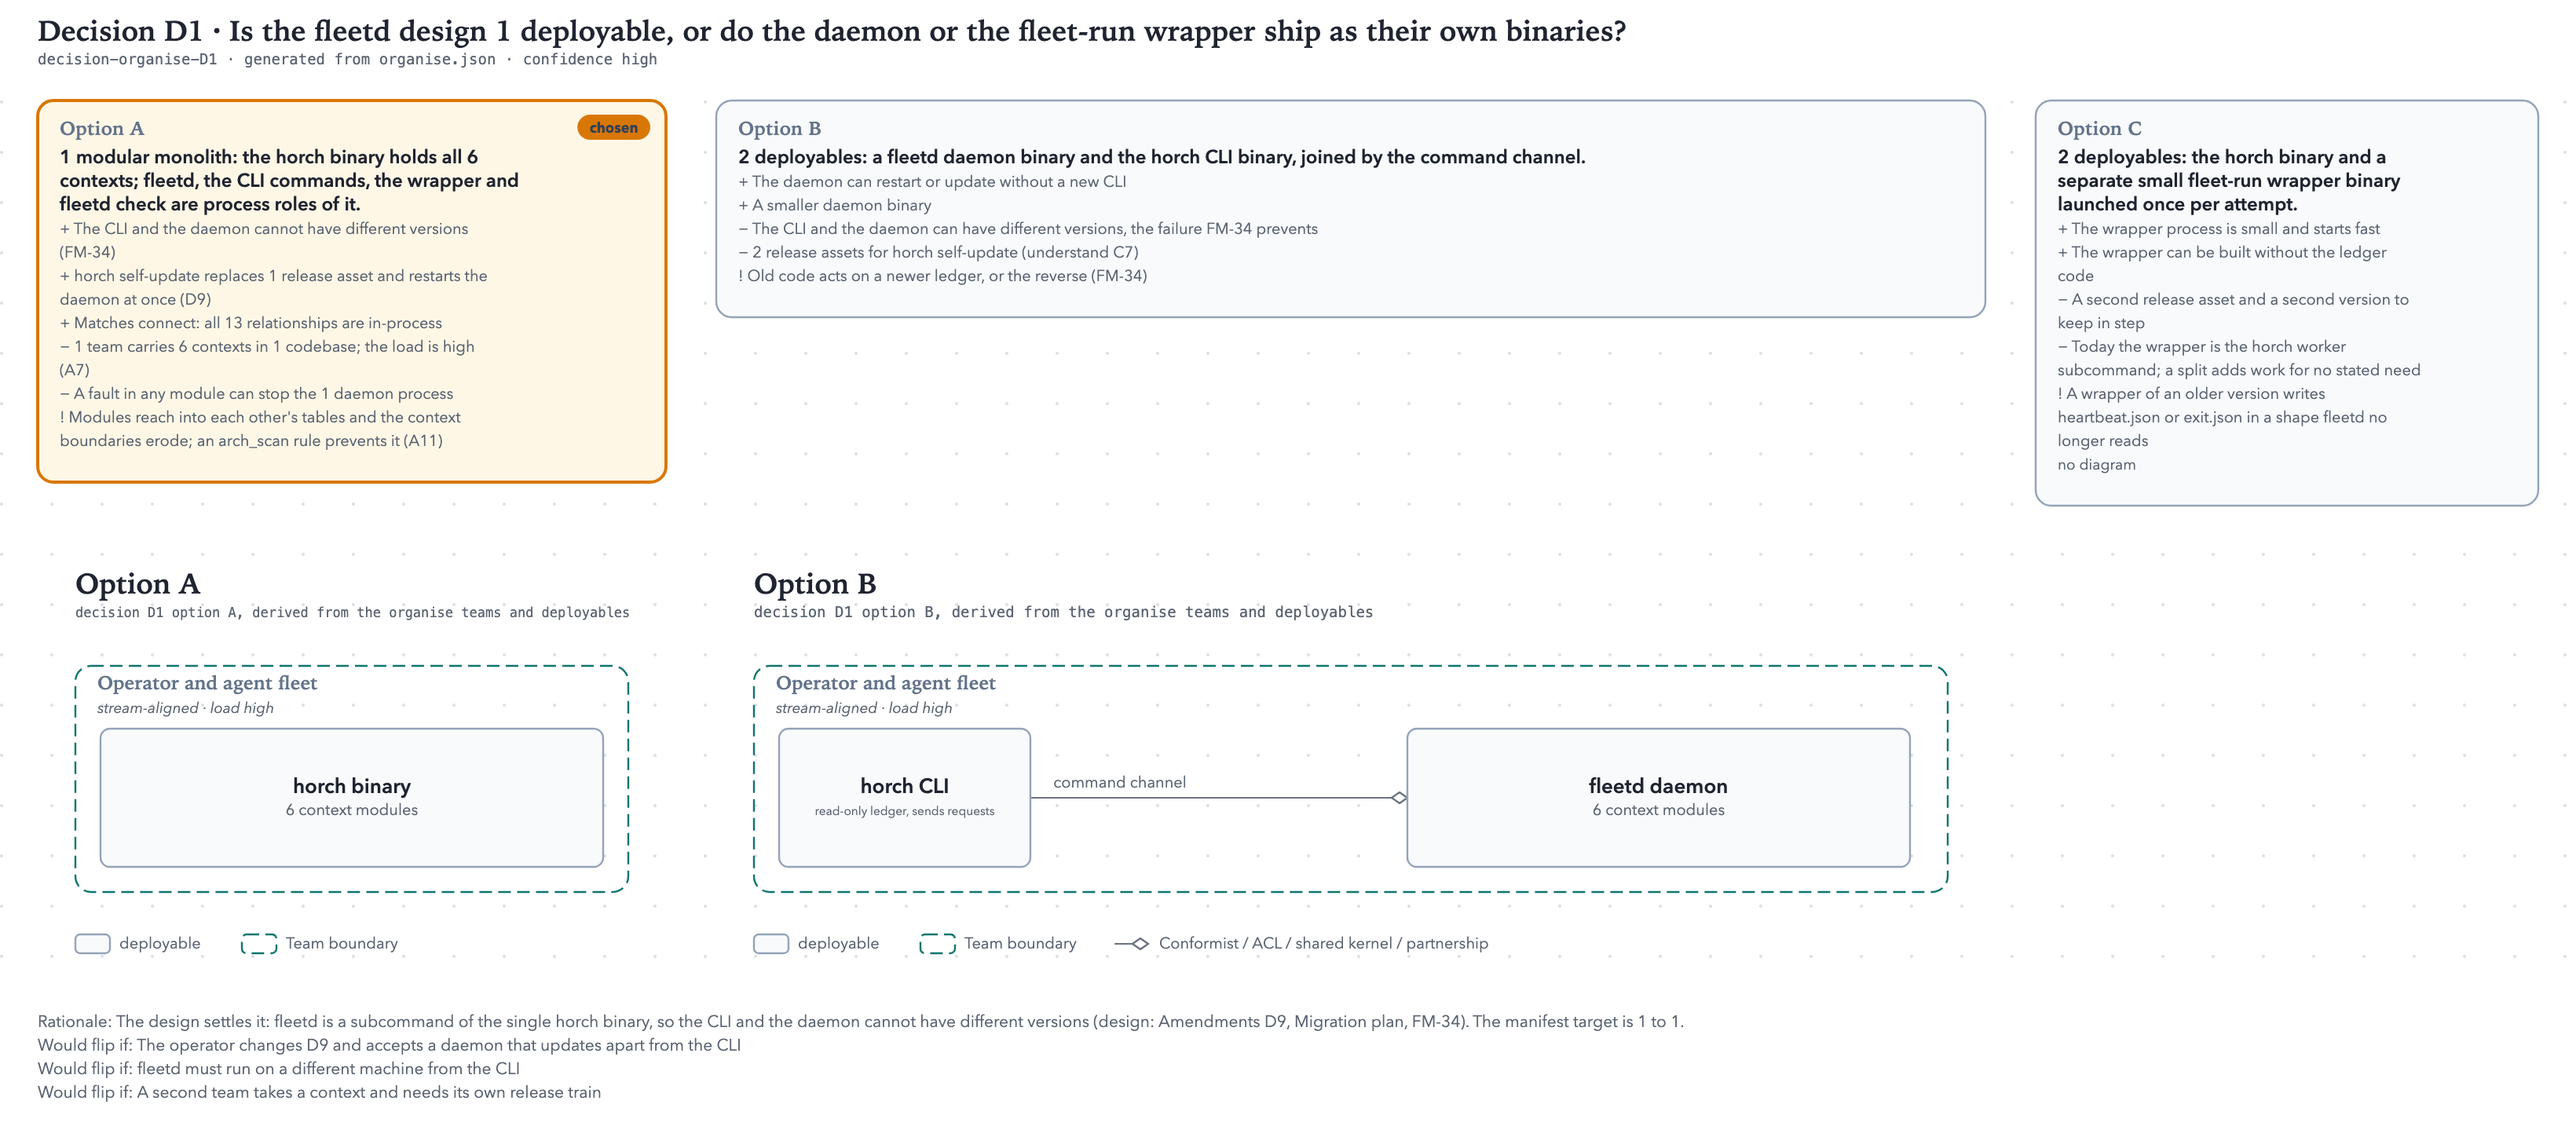
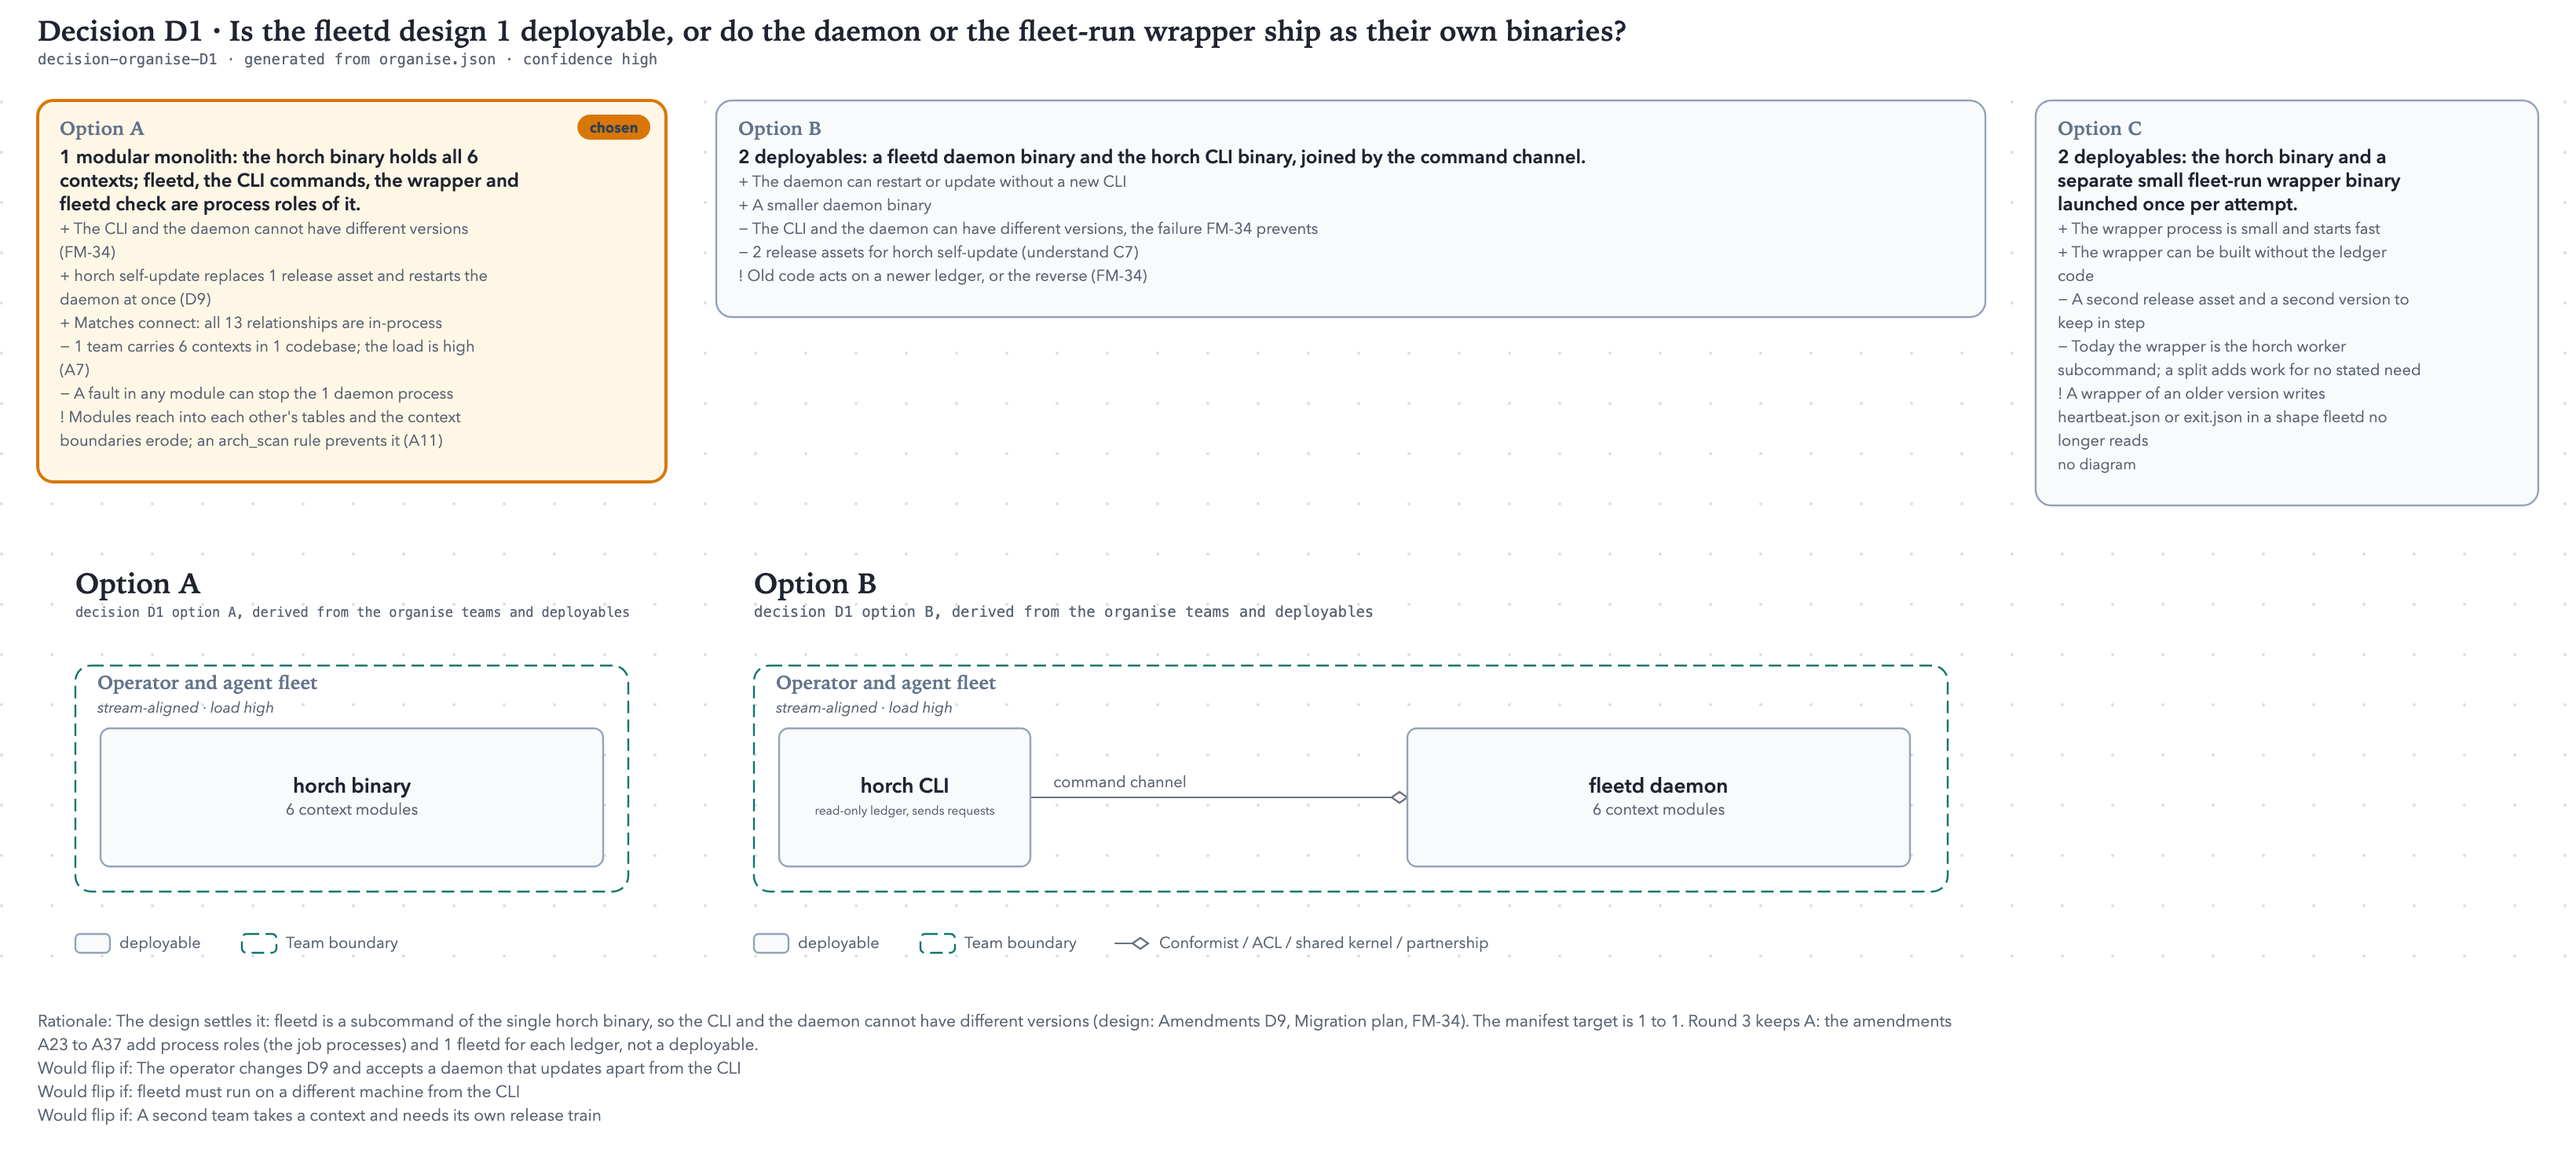
ddd round 3: revise organise for amendments A23 to A37

diff --git a/ddd/06-organise/team-topology.md b/ddd/06-organise/team-topology.md
@@ -79,8 +79,8 @@ flowchart LR
 - **Team:** `core-team`
 - **Data store:** own - 1 SQLite ledger (`~/.horch/ledger.sqlite3`, WAL) plus the workspace files. Each context owns its tables and folders (see below).
 - **Independent deploy:** yes, through horch self-update and the GitHub release assets (understand C7).
-- **Process roles (N1):** the same binary runs as the fleetd daemon (the only ledger writer), as short-lived CLI commands (read-only ledger, requests on the command channel), as the fleet-run wrapper (1 per attempt, owned by `worker-profiles`, A3) and as `horch fleetd check`. Docs sync and adapter conformance are a horch subcommand that fleetd schedules (D2, A10).
-- **Why these contexts live together:** fleetd is a subcommand of the single horch binary, so the CLI, the daemon and the wrapper always have the same version (design: Amendments D9, FM-34; understand C1). All 13 relationships are in-process (connect N1). task-execution calls worker-profiles and fleet-runtime synchronously at every launch (connect F2, F4). 1 team owns every context.
+- **Process roles (N1):** the same binary runs as the fleetd daemon (the only ledger writer from Phase 5, 1 for each ledger, A12), as short-lived CLI commands (read-only ledger, operator requests on the command channel), as the fleet-run wrapper (1 per attempt, owned by `worker-profiles`, A3), as job processes (1 per job run, outside the reconcile pass, A3) and as `horch fleetd check`. Each process starts through the 1 launcher of `worker-profiles`. Docs sync and adapter conformance are a horch subcommand that fleetd schedules as a `docs_sync` job, then a `conformance` job (D2, A10).
+- **Why these contexts live together:** fleetd is a subcommand of the single horch binary, so the CLI, the daemon and the wrapper always have the same version (design: Amendments D9, FM-34; understand C1). All 16 relationships are in-process (connect N1). task-execution calls worker-profiles and fleet-runtime synchronously at every launch (connect F2, F4). 1 team owns every context.
 - **Platform layer (A9, N5):** the leaf library crate `crates/horch-platform` (design A19, D16), linked into this binary. It is not a context and not a deployable. Each context calls it directly. Phase P creates it and moves the 178 production OS-specific sites behind it.
 - **Boundary rule (A11, N4):** an `arch_scan` rule fails a context that reads or writes the ledger tables or workspace folders of another context.
 
@@ -90,12 +90,12 @@ All rows go through the single ledger writer in `fleet-runtime` (decompose N5). 
 
 | Context | Store / schema | Owned by deployable | How others get at it |
 |---|---|---|---|
-| `ideas` | ledger tables `ideas`, `requirements`, `questions` (A5); idea folders | `horch` | events `plan-committed`, `idea-tasks-landed`, `question-answered` |
+| `ideas` | ledger tables `ideas`, `requirements`, `questions`, `needs_you` (A5); idea folders | `horch` | events `plan-committed`, `idea-tasks-landed`, `question-answered` |
 | `task-execution` | ledger tables `tasks`, `task_deps`, `task_covers`, `attempts`, `leases`; task and attempt folders | `horch` | events `task-leased`, `task-done`, `task-escalated`, `replan-requested` |
 | `worktree-custody` | ledger table `worktrees` | `horch` | events `worktree-created`, `rescue-failed` |
-| `integration` | ledger tables `features`, `branches`, `gate_runs`, `trial_merges` | `horch` | events `feature-opened`, `task-branch-landed`, `feature-merged`, `resolver-task-opened` |
+| `integration` | ledger tables `features`, `branches`, `bundles`, `bundle_members`, `gate_runs`, `trial_merges`, `remote_tips` | `horch` | events `feature-opened`, `task-branch-landed`, `feature-merged`, `resolver-task-opened` |
 | `worker-profiles` | teammate profile files, no ledger table | `horch` | query `launch-environment` through the module contract |
-| `fleet-runtime` | ledger tables `events`, `ingested`; the command channel | `horch` | command `start-agent-process`; the single ledger writer |
+| `fleet-runtime` | ledger tables `events`, `ingested`, `jobs`, `pass_cursors`, `requests` and the `fleetd` row; the command channel | `horch` | command `start-agent-process`; the single ledger writer |
 
 ## Decisions
 
@@ -119,14 +119,14 @@ All rows go through the single ledger writer in `fleet-runtime` (decompose N5). 
 
 - **A1** (high) 1 stream-aligned team, core-team, owns all 6 contexts. The size is not fixed because the agent count has no cap (understand C13).
 - **A2** (high) 1 deployable, the horch binary, holds all 6 contexts (design D9, FM-34; understand C1, N6; decompose N1).
-- **A3** (high) The fleet-run wrapper and `horch fleetd check` are process roles of the horch binary. `worker-profiles` owns the wrapper (orchestrator, D15; connect D2, N3).
+- **A3** (high) The fleet-run wrapper, `horch fleetd check` and each job process are process roles of the horch binary. `worker-profiles` owns the wrapper and the 1 launcher (orchestrator, D15; connect D2, N3; design SR-7).
 - **A4** (medium) 1 SQLite ledger plus the workspace files; each context owns its tables (table above).
 - **A5** (high) The `questions` table belongs to `ideas` (decompose D2 option A, orchestrator D15). `ideas` also owns the 1 needs-you list (decompose N9).
 - **A6** (high) herdr, the agent CLIs, git, GitHub and the OS service managers are external systems behind adapters, not deployables (strategize N1).
 - **A7** (medium) Cognitive load of core-team is high; mitigation as above.
 - **A8** (medium) Each context owns its workspace folders: idea folders to `ideas`, task and attempt folders to `task-execution`, profile files to `worker-profiles` (understand N17).
 - **A9** (high) The platform layer is the leaf crate `crates/horch-platform` inside the 1 deployable, not a context and not a deployable (design A19, D16).
-- **A10** (medium) Docs sync and adapter conformance run as a horch subcommand that fleetd schedules (D2 option A). The subcommand reports a drift to ideas as a --direct idea, so ideas creates the task (decompose Q2, answered).
+- **A10** (medium) Docs sync and adapter conformance run as a horch subcommand that fleetd schedules as a `docs_sync` job, then a `conformance` job (D2 option A). A drift becomes an idea, and `worker-profiles` marks a profile unhealthy and healthy again (design: Docs sync and adapter conformance).
 - **A11** (high) An `arch_scan` rule enforces the context boundaries (orchestrator, D15).
 
 ## Open questions
